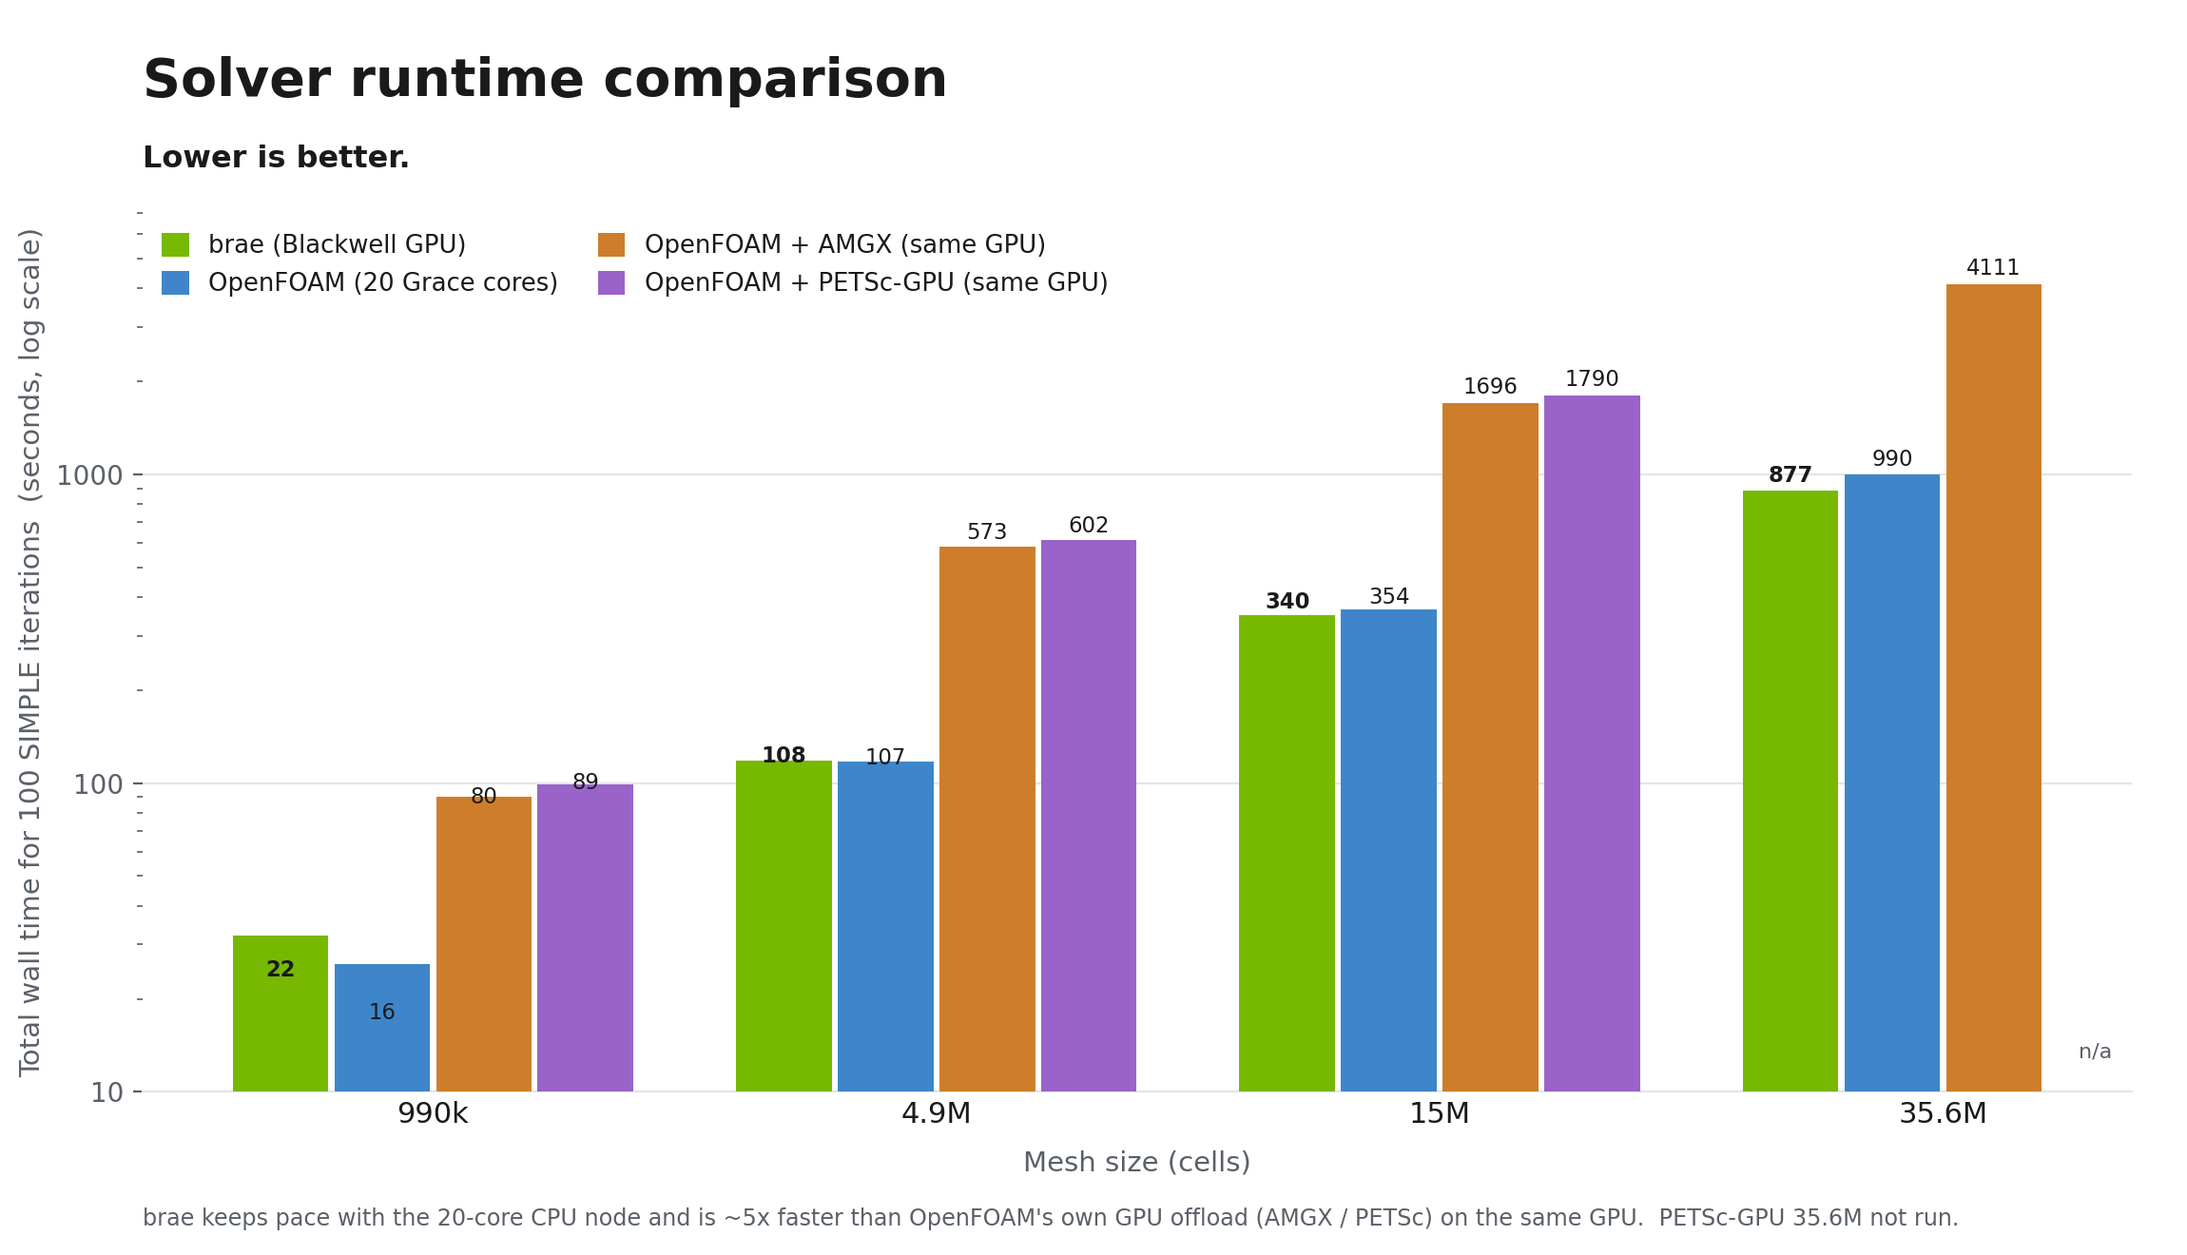
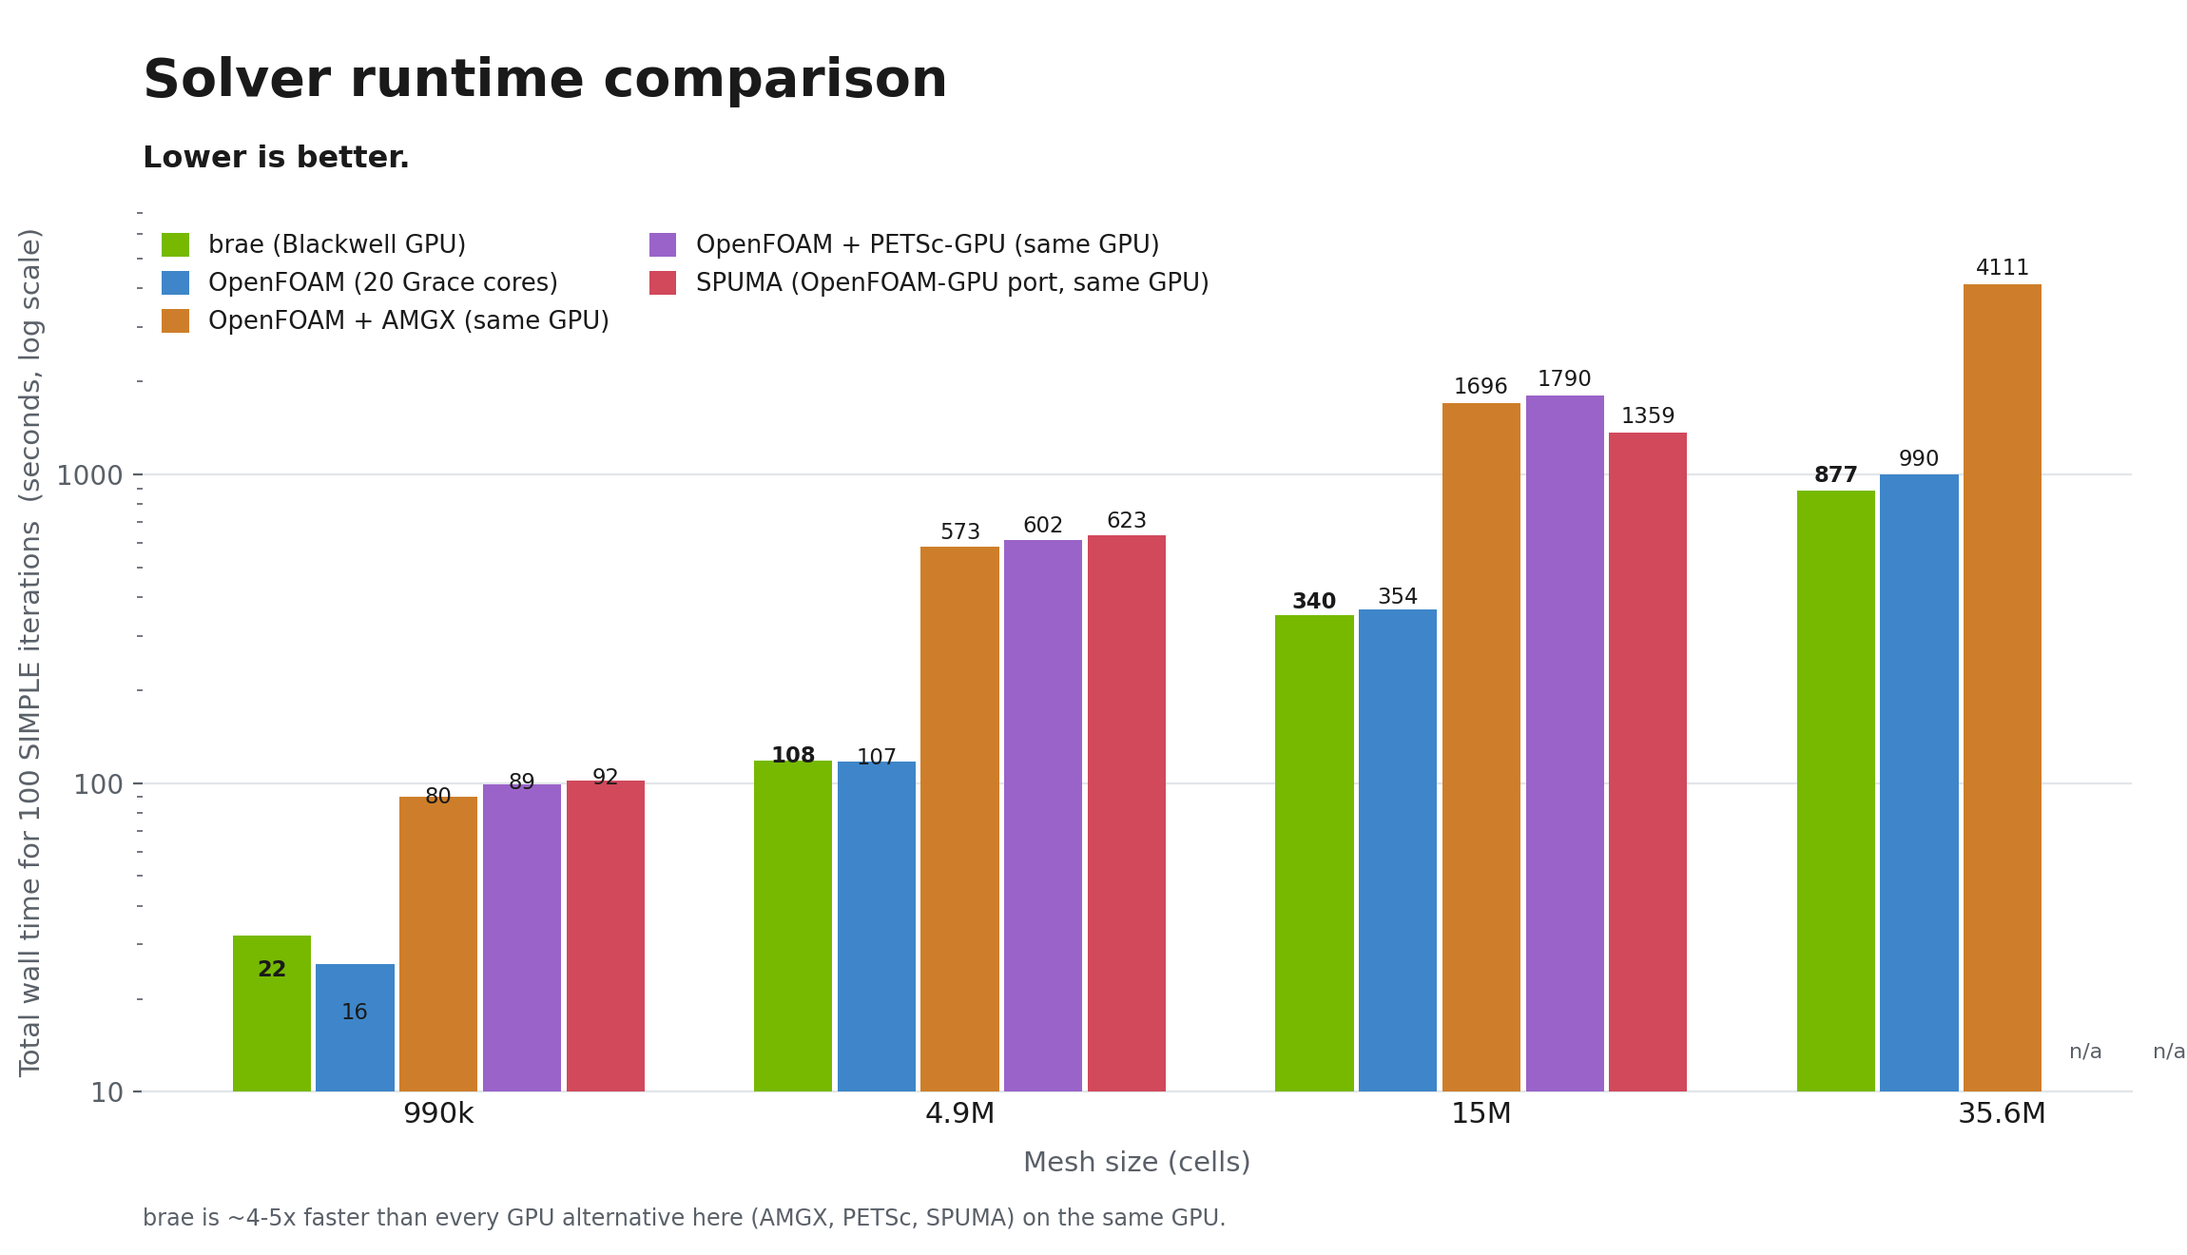
added SPUMA benchmark

diff --git a/bench/results/plot_runtime.py b/bench/results/plot_runtime.py
@@ -13,6 +13,7 @@ series = [
     ("OpenFOAM (20 Grace cores)",  [16, 107, 354, 990],   "#3E86C9"),
     ("OpenFOAM + AMGX (same GPU)", [80, 573, 1696, 4111], "#CE7E2A"),
     ("OpenFOAM + PETSc-GPU (same GPU)", [89, 602, 1790, None], "#9A63C9"),
+    ("SPUMA (OpenFOAM-GPU port, same GPU)", [92, 623, 1359, None], "#D1495B"),
 ]
 
 plt.rcParams.update({
@@ -23,7 +24,7 @@ plt.rcParams.update({
 fig, ax = plt.subplots(figsize=(11.5, 6.6), dpi=200)
 fig.patch.set_facecolor(SURFACE); ax.set_facecolor(SURFACE)
 
-x = np.arange(len(meshes)); n = len(series); w = 0.19; off = (np.arange(n) - (n-1)/2) * (w + 0.012)
+x = np.arange(len(meshes)); n = len(series); w = 0.15; off = (np.arange(n) - (n-1)/2) * (w + 0.010)
 for si, (name, vals, col) in enumerate(series):
     for gi, v in enumerate(vals):
         xp = x[gi] + off[si]
@@ -58,7 +59,7 @@ ax.legend(loc="upper left", bbox_to_anchor=(0.0, 1.0), ncol=2, frameon=False,
           columnspacing=1.6, borderaxespad=0.4)
 
 fig.text(0.065, 0.02,
-         "brae keeps pace with the 20-core CPU node and is ~5x faster than OpenFOAM's own GPU offload (AMGX / PETSc) on the same GPU.  PETSc-GPU 35.6M not run.",
+         "brae is ~4-5x faster than every GPU alternative here (AMGX, PETSc, SPUMA) on the same GPU.",
          fontsize=8.6, color=INK2, va="bottom")
 
 plt.subplots_adjust(left=0.065, right=0.975, top=0.83, bottom=0.13)

diff --git a/README.md b/README.md
@@ -25,12 +25,15 @@ validated cell-by-cell against OpenFOAM itself, so it drops into your workflow u
 
 ## ⚡ How fast
 
-![Solver runtime comparison: brae vs OpenFOAM on 20 Grace cores and OpenFOAM's own GPU offloads (AMGX, PETSc) on a single NVIDIA GB10, total wall for 100 SIMPLE iterations, log scale, lower is better](bench/results/solver_runtime_comparison.png)
+![Solver runtime comparison: brae vs OpenFOAM on 20 Grace cores, OpenFOAM's own GPU offloads (AMGX, PETSc), and the SPUMA OpenFOAM-GPU port, on a single NVIDIA GB10, total wall for 100 SIMPLE iterations, log scale, lower is better](bench/results/solver_runtime_comparison.png)
 
-*Total wall time for 100 SIMPLE iterations (scaled-pitzDaily) on a single NVIDIA GB10, log scale, lower is better.*
+*Total wall time for 100 SIMPLE iterations (scaled-pitzDaily) on a single NVIDIA GB10, log scale, lower is better. At 35.6M both SPUMA and OpenFOAM+PETSc-GPU diverged to NaN on that extreme-aspect-ratio mesh at stock solver settings; brae, OpenFOAM-CPU, and OpenFOAM+AMGX complete it as timing cases.*
 
-- **~5× faster than OpenFOAM's own GPU offload** on the *same* GPU (both AMGX and PETSc-GPU, AMGX being the quicker of
-  the two), the payoff of full residency.
+- **~4-5× faster than every other GPU approach on the *same* GPU** — OpenFOAM's own AMGX and PETSc-GPU offloads, *and*
+  the [SPUMA](https://gitlab-hpc.cineca.it/exafoam/spuma) OpenFOAM-GPU port (CINECA / EU-exaFOAM), the closest
+  full-residency peer. The payoff of keeping the whole loop resident: the offloads pay a per-iteration matrix
+  rebuild-and-copy, and SPUMA's managed-memory port leaves the GPU only lightly loaded at these mesh sizes. (SPUMA
+  itself overtakes the AMGX/PETSc offloads once the mesh is large; brae stays ahead of all three.)
 - **Parity-to-ahead of a 20-core Grace CPU node once the mesh is large**, and the lead widens with size (the GPU is
   under-utilized below ~1M cells, so it trails there, and saturated at scale, where it pulls ahead).
 - **< 1% from OpenFOAM**, validated cell-by-cell. It is not bit-identical, and is not meant to be: parallelising the
@@ -48,18 +51,20 @@ See [docs/performance.md](docs/performance.md) for methodology and the full curv
 
 ## 🎯 Same case, same answer
 
-motorBike (2.9M cells, k-omega SST, 500 iterations), surface pressure at the last step, all four rendered on one
-shared color scale. Brae, OpenFOAM on the Grace CPU, and OpenFOAM's own GPU offloads (AMGX, PETSc) produce a
-visually indistinguishable field and agree to within **~1.6% on drag (Cd)**. Red is the stagnation pressure on
-the front wheel and nose, blue is the suction over the helmet, back, and tank.
+motorBike (2.9M cells, k-omega SST, 500 iterations), surface pressure at the last step, all five rendered on one
+shared color scale. Brae, OpenFOAM on the Grace CPU, OpenFOAM's own GPU offloads (AMGX, PETSc), and the SPUMA
+OpenFOAM-GPU port produce a visually indistinguishable field and agree to within **~1.6% on drag (Cd)**. Red is the
+stagnation pressure on the front wheel and nose, blue is the suction over the helmet, back, and tank.
 
 | brae (Blackwell GPU) | OpenFOAM (Grace CPU) |
 |:---:|:---:|
 | ![motorBike surface pressure, brae on a Blackwell GPU](bench/results/motorbike_p_brae.png) | ![motorBike surface pressure, OpenFOAM on Grace CPU cores](bench/results/motorbike_p_of.png) |
 | **OpenFOAM + AMGX (GPU)** | **OpenFOAM + PETSc (GPU)** |
 | ![motorBike surface pressure, OpenFOAM with the AMGX GPU solver](bench/results/motorbike_p_amgx.png) | ![motorBike surface pressure, OpenFOAM with the PETSc GPU solver](bench/results/motorbike_p_petsc.png) |
+| **SPUMA (OpenFOAM-GPU port)** |  |
+| ![motorBike surface pressure, the SPUMA OpenFOAM-GPU port](bench/results/motorbike_p_spuma.png) |  |
 
-See [the full four-way comparison](bench/results/motorbike_comparison.md) for the drag and lift numbers.
+See [the full five-way comparison](bench/results/motorbike_comparison.md) for the drag and lift numbers (brae, OpenFOAM-CPU, AMGX, PETSc, and the SPUMA OpenFOAM-GPU port).
 
 ---
 
@@ -75,6 +80,11 @@ ceiling.
 - **Faithful**, a clean-room reimplementation of OpenFOAM v2412, validated **cell-by-cell** against it (sub-1% on
   the fields that matter).
 - **Fast where it counts**, one Blackwell GPU keeps pace with a 20-core Grace CPU node, and pulls ahead as the mesh grows.
+
+The speedup is that residency, not any one allocator trick: brae keeps its fields and OpenFOAM's LDU matrix in
+explicit, pooled device memory and does zero host-device copies per iteration (pinned memory is used only for a
+couple of reduction scalars). See [docs/memory-model.md](docs/memory-model.md) for the full data-layout rationale
+(why a device pool over pinned/`thrust`, and why LDU-gather over CSR/cuSPARSE).
 
 ---
 
@@ -115,13 +125,19 @@ cmake --build build -j --target brae
 Run brae from inside any existing OpenFOAM (`simpleFoam`) case, exactly as you would run `simpleFoam` itself:
 
 ```bash
-cd yourCase                    # your OpenFOAM case directory (0/  constant/  system/)
-brae                           # solve in the current directory
-brae -case /path/to/yourCase   # or run it from anywhere
+cd yourCase                       # your OpenFOAM case directory (0/  constant/  system/)
+brae                              # solve in the current directory
+brae -case /path/to/yourCase      # or run it from anywhere
+
+# Optional: partition once (brae's analogue of decomposePar), then run warm
+brae -partition -case yourCase    # cold: build + cache the mesh and AMG hierarchy, then exit (no solve)
+brae -case yourCase               # warm: reloads the cache and solves (fast startup)
 ```
 
-Brae reads the standard dictionaries and mesh, auto-partitions for your GPU (no `decomposePar`), and writes ordinary
-time directories.
+Brae reads your standard case (dictionaries + mesh), auto-partitions for the GPU (no `decomposePar`), and writes
+ordinary time directories. A plain `brae` run does everything on its own. The optional `-partition` step just does
+the one-time mesh + AMG-hierarchy prep up front and caches it, so later runs of the same mesh start warm, handy for
+benchmarking and for re-running a mesh many times.
 
 The [**fast path**](docs/performance.md) (device-resident solver + mixed-precision multigrid, accuracy-preserving) is
 **on by default**; opt out with `BRAE_PCG_DEVICE=0 BRAE_AMG_FP32=0`.
@@ -154,4 +170,5 @@ See [the roadmap](docs/roadmap.md) for the current scope and what is coming next
 - [Getting started](docs/getting-started.md), install, first run, verifying against OpenFOAM
 - [Solvers](#-solvers), per-solver coverage
 - [Performance & tuning](docs/performance.md), the `BRAE_*` knobs, benchmarks, the residency story
+- [Memory model & data layout](docs/memory-model.md), device pool vs pinned, LDU-gather vs CSR, and why
 - [Roadmap](docs/roadmap.md), scope and what is coming next

diff --git a/docs/memory-model.md b/docs/memory-model.md
@@ -1,0 +1,58 @@
+# Memory model and data layout
+
+Why brae lays out its data the way it does, answering the two questions that come up most: *why a device
+memory pool instead of pinned memory or `thrust` vectors?* and *why keep OpenFOAM's LDU matrix instead of
+converting to CSR for cuSPARSE?*
+
+## Summary
+
+| concern | brae's choice | why |
+|---|---|---|
+| per-iteration transfers | none (device-resident) | the actual speedup; no migration tax |
+| bulk storage | explicit `cudaMalloc`, pooled | makes "0 copies/iter" measurable; kills allocator churn |
+| temporaries | caching pool (size-keyed free list) | per-iteration malloc/free churn -> ~0; predictable timing |
+| pinned host memory | 2 scalars only (reduction mailbox) | fast single-value sync; not a data store |
+| field layout | structure-of-arrays | coalesced access |
+| matrix | LDU + cell-gather (not CSR/cuSPARSE) | atomic-free, reproducible, shared addressing; net faster in-solver |
+| rebuild costs | AMG hierarchy cache + CUDA-graph replay | reuse across iterations |
+
+The one theme behind all of it: **the speedup is residency, not any single allocator trick**, and everything
+below exists to *do the expensive thing once and reuse it*, whether that is a device buffer, the AMG
+hierarchy, or a captured CUDA graph.
+
+## The detail
+
+**Explicit device memory, not managed.** Buffers use `cudaMalloc` behind an RAII wrapper (`DeviceBuffer<T>`),
+not `cudaMallocManaged`. With explicit memory every host-device copy is a named call, so "0 copies per
+iteration" is something we measure and enforce; unified memory would hide exactly the transfers we are trying
+to eliminate.
+
+**The device pool.** The loop reuses many short-lived temporaries each iteration (interpolated fields, fluxes,
+gradients, residual and AMG workspace); allocating/freeing them through the driver adds overhead and
+synchronization. `DevicePool` (`src/cuda/device_buffer.cuh`) retains freed blocks in a size-keyed free list
+and hands them back to the next same-size request, so after the first iteration steady-state malloc/free drops
+to ~0. A/B it with `BRAE_NO_DEVICE_POOL=1`.
+
+**Pool vs pinned, they solve different problems.** Pinned host memory speeds up *host-device transfers*; brae's
+point is to *not do those inside the loop*, so pinned is not the lever. The only pinned allocation is two
+scalars (`device_blas.cu`): a host mirror for reduction results, so the one unavoidable device-to-host sync per
+reduction is fast. A mailbox for one number, not a data store. (Likewise `thrust::device_vector` temporaries
+carry the same alloc + sync cost the pool removes, and lack the stable pointer CUDA-graph capture needs.)
+
+**LDU matrix + cell-gather, not CSR.** Brae keeps OpenFOAM's LDU format (diagonal + `upper`/`lower` by face,
+`owner`/`neighbour` + `ownerStart`/`losort` addressing). The SpMV is a per-cell gather: one thread per cell, so
+each output is written by one thread, no atomics, no race, fixed (reproducible) accumulation order. Converting
+to CSR + cuSPARSE was measured and rejected (`validation/perf/spmv_bench.cu`): cuSPARSE's kernel is marginally
+faster in isolation (~1.3x), but **net ~1.25x slower in-solver** because every call must convert LDU->CSR
+(doubling traffic on a bandwidth-bound kernel) and would not survive CUDA-graph capture. Beyond the benchmark,
+assembly, boundary handling, pressure correction, and turbulence all share the same LDU addressing, so keeping
+one representation is simpler than re-deriving CSR per operation.
+
+**Caches beyond the pool** (same "reuse, don't rebuild" idea): the AMG hierarchy is static per mesh, so its
+structure is serialized and reloaded warm (the `-partition` step); and the multigrid V-cycle + device-resident
+PCG body are captured once as CUDA graphs and replayed, which needs the stable pointers the pool provides.
+
+**The tradeoff.** Cell-gather over an unstructured mesh means some loops have irregular neighbour access
+(scattered in memory). That is inherent to unstructured FV; renumbering improves locality but does not remove
+it. For LDU matrices where every stage shares addressing, gather was the better first layout, measured, not
+assumed.

diff --git a/docs/performance.md b/docs/performance.md
@@ -32,19 +32,31 @@ Other tuning knobs (advanced; sensible defaults):
 ## Benchmarks
 
 Total wall time for **100 SIMPLE iterations**, scaled-pitzDaily, on a single **NVIDIA GB10** (20 Grace CPU cores +
-one Blackwell GPU, unified LPDDR5x, **no HBM**). Partition/decompose is done once and excluded on all sides.
+one Blackwell GPU, unified LPDDR5x, **no HBM**). The one-time prep is done once and excluded on all sides: for
+OpenFOAM that is `decomposePar`; for brae it is `brae -partition -case <case>`, which builds and caches the mesh +
+AMG hierarchy (`constant/polyMesh/.brae_meshcache` + `.brae_amgcache`) so the timed run reloads them warm. See
+[Get started](../README.md#-get-started) for the workflow.
 
-| cells | **brae** (Blackwell GPU) | OpenFOAM (20 Grace cores) | OpenFOAM+AMGX (same GPU) | OpenFOAM+PETSc-GPU (same GPU) |
-|---|---:|---:|---:|---:|
-| 990k | 21.6 s | 15.9 s | 80.0 s | 89.3 s |
-| 4.89M | 107.7 s | 107.0 s | 572.5 s | 601.6 s |
-| 10.28M | 232.5 s | 228.8 s | 1174.2 s | 1253.0 s |
-| 14.97M | 339.6 s | 354.4 s | 1696.4 s | 1790.3 s |
-| 35.6M | 877.1 s | 990.4 s | 4111.0 s | - |
+| cells | **brae** (Blackwell GPU) | OpenFOAM (20 Grace cores) | OpenFOAM+AMGX (same GPU) | OpenFOAM+PETSc-GPU (same GPU) | SPUMA (same GPU) |
+|---|---:|---:|---:|---:|---:|
+| 990k | 21.6 s | 15.9 s | 80.0 s | 89.3 s | 92.4 s |
+| 4.89M | 107.7 s | 107.0 s | 572.5 s | 601.6 s | 623.2 s |
+| 10.28M | 232.5 s | 228.8 s | 1174.2 s | 1253.0 s | 1056.3 s |
+| 14.97M | 339.6 s | 354.4 s | 1696.4 s | 1790.3 s | 1359.3 s |
+| 35.6M | 877.1 s | 990.4 s | 4111.0 s | - | —¹ |
+
+SPUMA is the [CINECA / EU-exaFOAM OpenFOAM-GPU port](https://gitlab-hpc.cineca.it/exafoam/spuma) (a full GPU fork
+of OpenFOAM on unified memory), the closest full-residency peer to brae. ¹ SPUMA diverged to NaN on the extreme
+35.6M scaled mesh at stock solver settings.
 
 **Reading it:**
 
-- **~5× faster than OpenFOAM's best GPU offload (AMGX)** on the *same* GPU, at every size, the residency payoff.
+- **~4-5× faster than every other GPU approach** on the *same* GPU, OpenFOAM's own AMGX/PETSc offloads **and** the
+  SPUMA port, at every size, the residency payoff.
+- **SPUMA is a full-residency port, not an offload** (a GPU fork of OpenFOAM on unified memory): at ≤5M it is
+  roughly tied with AMGX/PETSc, but from ~10M up it *overtakes* them (1056 s vs 1174/1253 at 10.28M) because, like
+  brae, it avoids the offloads' per-iteration matrix rebuild-and-copy. It still stays ~4-4.5× behind brae, and its
+  GPU sits only ~7-8% utilized at these sizes (its design point is tens of millions of cells per GPU).
 - **Parity-to-ahead of a 20-core Grace CPU node**, and the lead grows with mesh size (0.74× at 990k → 1.13× at
   35.6M). Small meshes under-utilize the GPU; large meshes saturate it.
 

diff --git a/bench/results/motorbike_comparison.md b/bench/results/motorbike_comparison.md
@@ -1,7 +1,7 @@
 # motorBike: brae vs OpenFOAM (same mesh, same scheme)
 
 A same-mesh, same-scheme cross-check on the standard OpenFOAM `motorBike` case (snappyHexMesh, kOmegaSST, 354k cells,
-500 SIMPLE iterations) on a single NVIDIA GB10. All four solvers use the stock scheme
+500 SIMPLE iterations) on a single NVIDIA GB10. All five solvers use the stock scheme
 `div(phi,U) bounded Gauss linearUpwindV grad(U)`.
 
 ## Force coefficients (`forceCoeffs` on `motorBikeGroup`)
@@ -12,16 +12,18 @@ A same-mesh, same-scheme cross-check on the standard OpenFOAM `motorBike` case (
 | OpenFOAM (20 Grace cores) | 0.4194 | 0.0680 | 0.1578 | GAMG (CPU) |
 | OpenFOAM + AMGX | 0.4134 | 0.0700 | 0.1598 | AMGX aggregation AMG (GPU) |
 | OpenFOAM + PETSc-GPU | 0.4166 | 0.0657 | 0.1558 | PETSc GAMG on cuSPARSE (GPU) |
+| SPUMA (OpenFOAM-GPU port) | 0.4177 | 0.0684 | 0.1554 | GAMG on GPU (unified memory) |
 
 **Reading it:**
 
-- **Cd within 1.6%** across all four (0.4125 to 0.4194). brae, an independent clean-room reimplementation, lands
+- **Cd within 1.6%** across all five (0.4125 to 0.4194). brae, an independent clean-room reimplementation, lands
   right inside the OpenFOAM family's band.
-- The three OpenFOAM variants (CPU / AMGX / PETSc) agree with each other to ~1.4% on Cd. They are the same OpenFOAM
-  physics with only the pressure linear-solve swapped, so that is the expected solver-to-solver scatter, and brae
-  sits inside it.
-- **Cm within ~3%** across all four (0.1547 to 0.1598).
-- **Cl** is the noisiest coefficient: the OpenFOAM family clusters at 0.066 to 0.070, brae reads 0.083 (about 0.015
+- The four OpenFOAM-derived variants (CPU / AMGX / PETSc / SPUMA) agree with each other to ~1.4% on Cd (0.4134 to
+  0.4194). They run the same OpenFOAM physics (SPUMA is a GPU fork of it, so its forces match by construction), with
+  only the pressure solver or memory model swapped, so that is the expected solver-to-solver scatter, and brae sits
+  inside it.
+- **Cm within ~3%** across all five (0.1547 to 0.1598).
+- **Cl** is the noisiest coefficient: the OpenFOAM family (SPUMA included, at 0.068) clusters at 0.066 to 0.070, brae reads 0.083 (about 0.015
   higher in absolute terms). Cl is small, and the flow is not tightly converged at 500 iterations on a massively
   separated bluff body, so lift is the most sensitive number; brae's bulk drag and moment track OpenFOAM closely.
 
